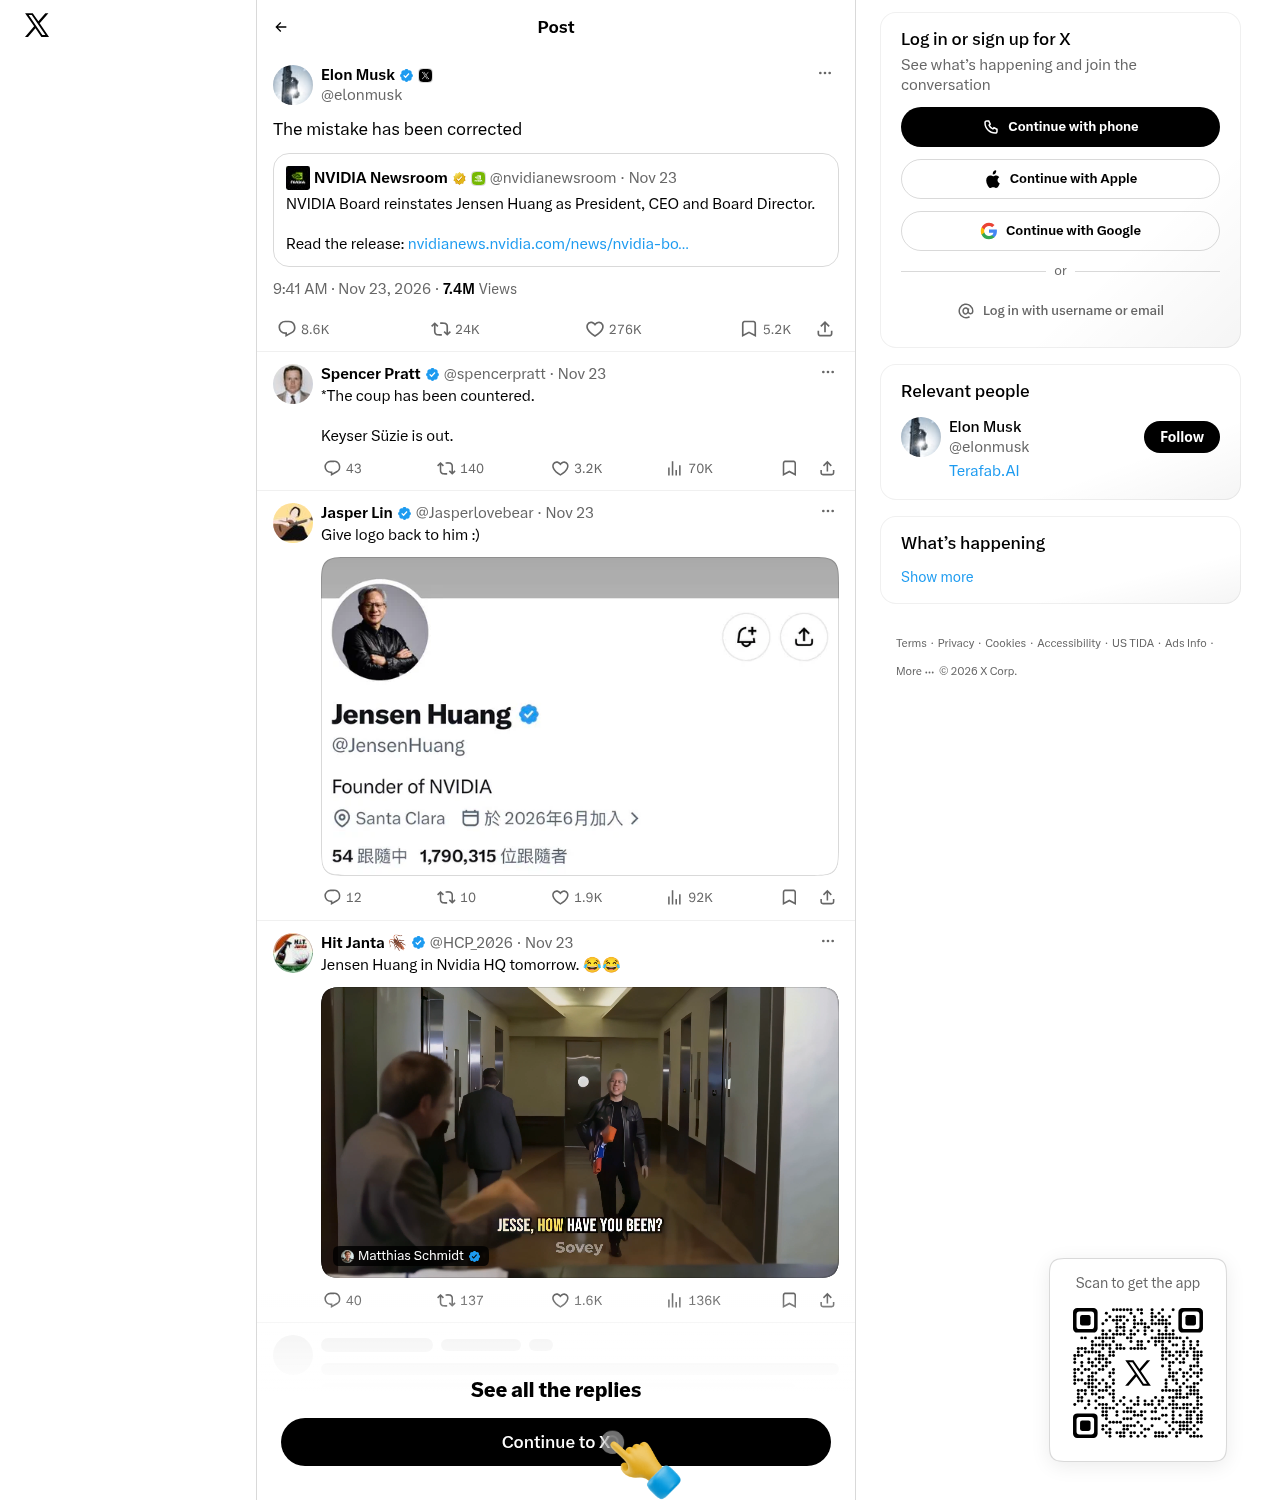
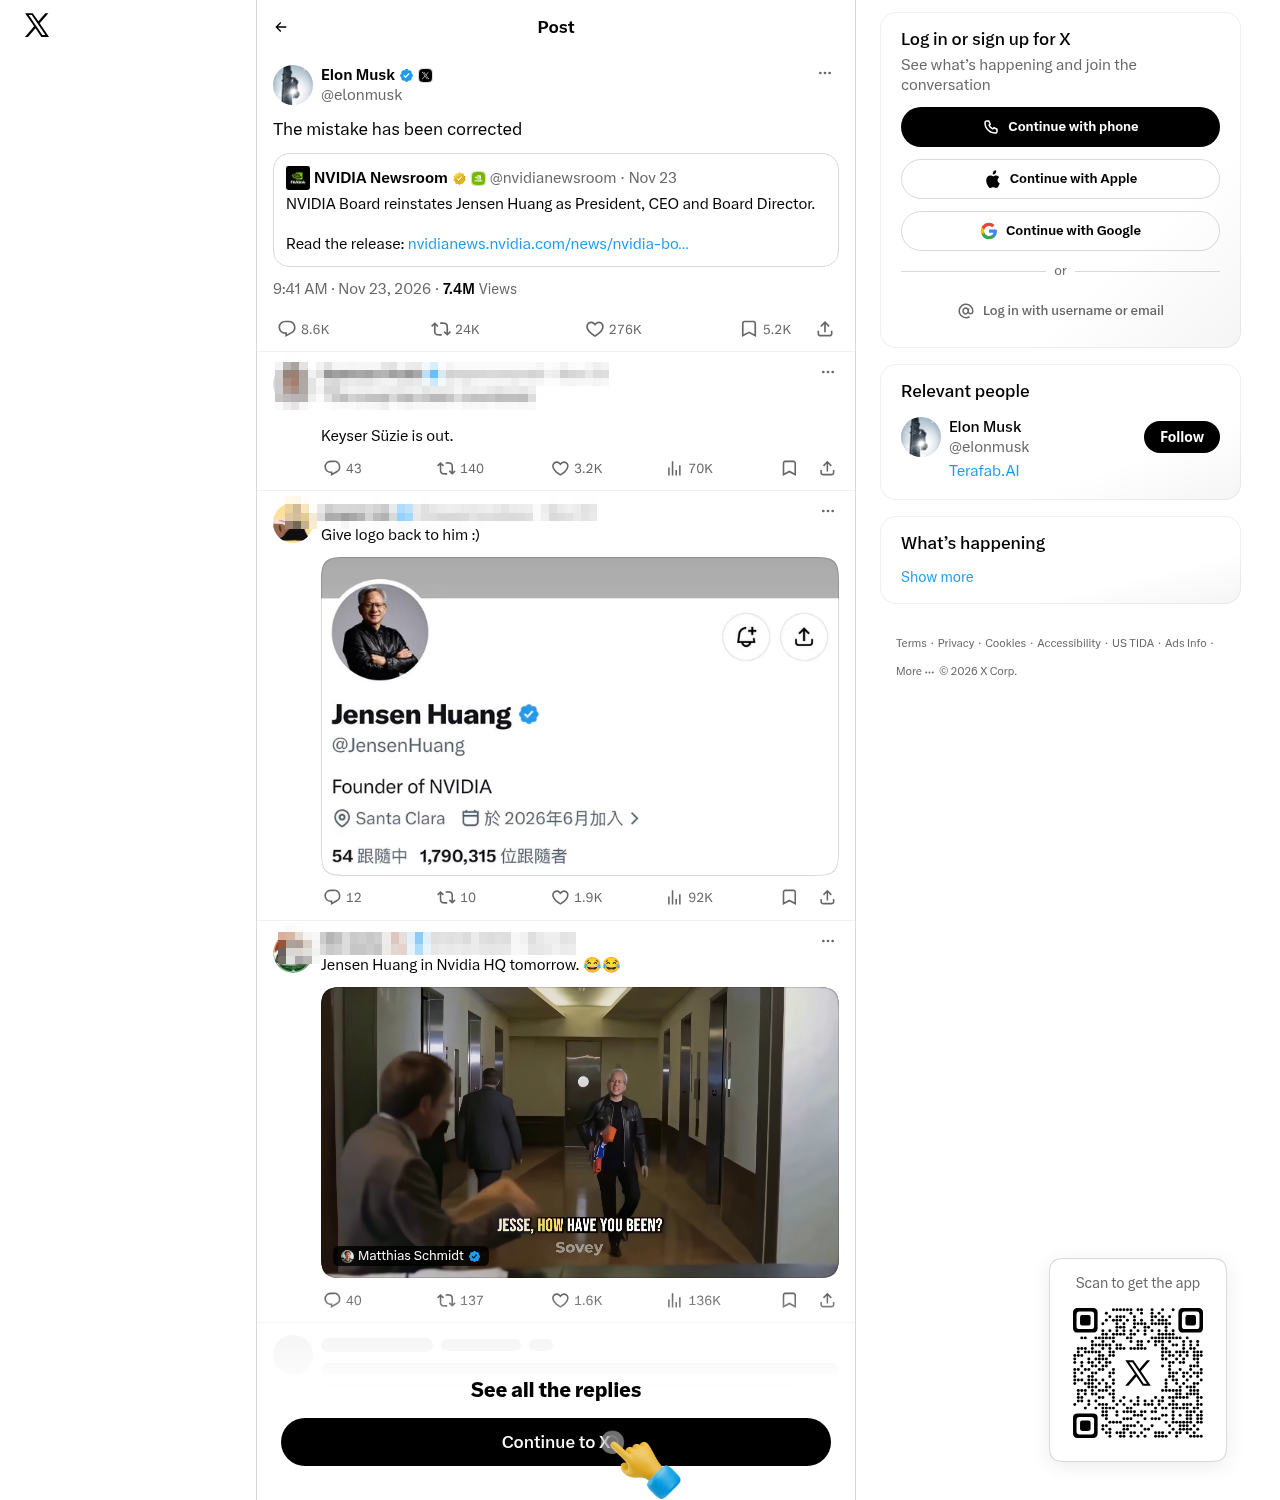
素材：J9/J10/J17/J18 普通账号打码

Changed region(s): [[0.2188, 0.6133, 0.4688, 0.644], [0.2188, 0.3373, 0.4688, 0.368], [0.2188, 0.2453, 0.4688, 0.276]]

diff --git a/demos/jensen-huang-comeback/素材/来源表.md b/demos/jensen-huang-comeback/素材/来源表.md
@@ -56,9 +56,9 @@
 | J8_cbs.png | J8 | CBS：复职与请愿 | https://cbsnews.com/news/nvidia-board-reinstates-ceo-jensen-huang | 截图 2026-11-24 10:54 ET | 1920 视窗 PNG | 公开网页截图，未登录、未绕过付费墙 |  |
 | J8_cbs_crop_petition.png | J8 | 请愿签名数字 | https://cbsnews.com/news/nvidia-board-reinstates-ceo-jensen-huang | 截图 2026-11-24 10:54 ET | 1920 视窗 PNG | 公开网页截图，未登录、未绕过付费墙 | 局部裁图，不覆盖整页 |
 | J23_cbs_crop_rajgopal.png | J23 | CBS：Rajgopal 引语 | https://cbsnews.com/news/nvidia-board-reinstates-ceo-jensen-huang | 截图 2026-11-24 10:54 ET | 1920 视窗 PNG | 公开网页截图，未登录、未绕过付费墙 | 局部裁图，不覆盖整页 |
-| J9_x_musk_petition.png | J9 | 马斯克 X：签了请愿 | https://x.com/elonmusk/status/2121345211959804234 | 截图 2026-11-24 10:54 ET | 1920 视窗 PNG | 公开网页截图，未登录、未绕过付费墙 | X 原帖。周围回复里有普通账号，剪进成片前请把那些头像和名字打码，只留当事人正文 |
-| J10_x_huang_1117.png | J10 | 黄仁勋 X 11/17 表态 | https://x.com/JensenHuang/status/2122726005219737649 | 截图 2026-11-24 10:55 ET | 1920 视窗 PNG | 公开网页截图，未登录、未绕过付费墙 | X 原帖。周围回复里有普通账号，剪进成片前请把那些头像和名字打码，只留当事人正文 |
-| J10_cnbc_1117.png | J10 | CNBC 11/17 黄仁勋声明 | https://www.cnbc.com/2026/11/17/nvidia-jensen-huang-statement.html | 截图 2026-11-24 10:55 ET | 1920 视窗 PNG | 公开网页截图，未登录、未绕过付费墙 |  |
+| J9_x_musk_petition.png | J9 | 马斯克 X：签了请愿 | https://x.com/elonmusk/status/2121345211959804234 | 截图 2026-11-24 10:54 ET | 1920 视窗 PNG | 公开网页截图，未登录、未绕过付费墙 | 已打码普通账号。马斯克主帖、正文、时间和互动数字保留 |
+| J10_x_huang_1117.png | J10 | 黄仁勋 X 11/17 表态 | https://x.com/JensenHuang/status/2122726005219737649 | 截图 2026-11-24 10:55 ET | 1920 视窗 PNG | 公开网页截图，未登录、未绕过付费墙 | 已查看：只有黄仁勋本人，没有普通回复账号，未改画面 |
+| J10_cnbc_1117.png | J10 | CNBC 11/17 黄仁勋声明 | https://www.cnbc.com/2026/11/17/nvidia-jensen-huang-statement.html | 截图 2026-11-24 10:55 ET | 1920 视窗 PNG | 公开网页截图，未登录、未绕过付费墙 | 已查看：媒体署名，没有普通社交账号 |
 | J10_cnbc_1117_crop.png | J10 | “honored to return” 一类原句 | https://www.cnbc.com/2026/11/17/nvidia-jensen-huang-statement.html | 截图 2026-11-24 10:55 ET | 1920 视窗 PNG | 公开网页截图，未登录、未绕过付费墙 | 局部裁图，不覆盖整页 |
 | J11_politico_1117.png | J11 | Politico：琼斯说不打算复职 | https://www.politico.com/news/2026/11/17/jensen-huangs-return-is-off-the-table-nvidia-chair-says-01171687 | 截图 2026-11-24 10:55 ET | 1920 视窗 PNG | 公开网页截图，未登录、未绕过付费墙 |  |
 | J11_politico_1117_crop.png | J11 | does not intend 局部 | https://www.politico.com/news/2026/11/17/jensen-huangs-return-is-off-the-table-nvidia-chair-says-01171687 | 截图 2026-11-24 10:55 ET | 1920 视窗 PNG | 公开网页截图，未登录、未绕过付费墙 | 局部裁图，不覆盖整页 |
@@ -76,12 +76,12 @@
 | J16_rte_megaspeed.png | J16 | RTE：Megaspeed / 实体清单 | https://www.rte.ie/news/business/2026/1124/1600451-what-we-know-about-megaspeed/ | 截图 2026-11-24 10:56 ET | 1920 视窗 PNG | 公开网页截图，未登录、未绕过付费墙 |  |
 | J16_rte_crop_apex.png | J16 | Apex | https://www.rte.ie/news/business/2026/1124/1600451-what-we-know-about-megaspeed/ | 截图 2026-11-24 10:56 ET | 1920 视窗 PNG | 公开网页截图，未登录、未绕过付费墙 | 局部裁图，不覆盖整页 |
 | J16_rte_crop_erroneous.png | J16 | erroneous 回应 | https://www.rte.ie/news/business/2026/1124/1600451-what-we-know-about-megaspeed/ | 截图 2026-11-24 10:56 ET | 1920 视窗 PNG | 公开网页截图，未登录、未绕过付费墙 | 局部裁图，不覆盖整页 |
-| J17_x_musk_corrected.png | J17 | 马斯克 X：The mistake has been corrected | https://x.com/elonmusk/status/2124875939133751684 | 截图 2026-11-24 10:56 ET | 1920 视窗 PNG | 公开网页截图，未登录、未绕过付费墙 | X 原帖。周围回复里有普通账号，剪进成片前请把那些头像和名字打码，只留当事人正文 |
-| J17_investing_reactions.png | J17 | Investing.com 转载路透各方反应 | https://www.investing.com/news/stock-market-news/political-and-corporate-leaders-react-to-huangs-return-as-nvidia-ceo-5045985 | 截图 2026-11-24 10:57 ET | 1920 视窗 PNG | 公开网页截图，未登录、未绕过付费墙 |  |
+| J17_x_musk_corrected.png | J17 | 马斯克 X：The mistake has been corrected | https://x.com/elonmusk/status/2124875939133751684 | 截图 2026-11-24 10:56 ET | 1920 视窗 PNG | 公开网页截图，未登录、未绕过付费墙 | 已打码普通账号。马斯克主帖和英伟达新闻室引用保留 |
+| J17_investing_reactions.png | J17 | Investing.com 转载路透各方反应 | https://www.investing.com/news/stock-market-news/political-and-corporate-leaders-react-to-huangs-return-as-nvidia-ceo-5045985 | 截图 2026-11-24 10:57 ET | 1920 视窗 PNG | 公开网页截图，未登录、未绕过付费墙 | 已查看：新闻页，没有普通社交账号 |
 | J17_investing_crop_musk.png | J17 | 马斯克那句 | https://www.investing.com/news/stock-market-news/political-and-corporate-leaders-react-to-huangs-return-as-nvidia-ceo-5045985 | 截图 2026-11-24 10:57 ET | 1920 视窗 PNG | 公开网页截图，未登录、未绕过付费墙 | 局部裁图，不覆盖整页 |
 | J21_investing_crop_warren.png | J21 | 沃伦引语（路透反应稿） | https://www.investing.com/news/stock-market-news/political-and-corporate-leaders-react-to-huangs-return-as-nvidia-ceo-5045985 | 截图 2026-11-24 10:57 ET | 1920 视窗 PNG | 公开网页截图，未登录、未绕过付费墙 | 局部裁图，不覆盖整页 |
-| J18_x_calacanis.png | J18 | Jason Calacanis X：GPU Jesus | https://x.com/Jason/status/2124871290578407730 | 截图 2026-11-24 10:57 ET | 1920 视窗 PNG | 公开网页截图，未登录、未绕过付费墙 | X 原帖。周围回复里有普通账号，剪进成片前请把那些头像和名字打码，只留当事人正文 |
-| J18_decrypt.png | J18 | Decrypt 梗文 | https://decrypt.co/383820/jensen-huang-returns-nvidia-memes-gpu-jesus | 截图 2026-11-24 10:57 ET | 1920 视窗 PNG | 公开网页截图，未登录、未绕过付费墙 |  |
+| J18_x_calacanis.png | J18 | Jason Calacanis X：GPU Jesus | https://x.com/Jason/status/2124871290578407730 | 截图 2026-11-24 10:57 ET | 1920 视窗 PNG | 公开网页截图，未登录、未绕过付费墙 | 已查看：只有 @jason 主帖，没有普通回复账号，未改画面 |
+| J18_decrypt.png | J18 | Decrypt 梗文 | https://decrypt.co/383820/jensen-huang-returns-nvidia-memes-gpu-jesus | 截图 2026-11-24 10:57 ET | 1920 视窗 PNG | 公开网页截图，未登录、未绕过付费墙 | 已查看：媒体署名，没有普通社交账号 |
 | J18_decrypt_crop_calacanis.png | J18 | GPU Jesus 段落 | https://decrypt.co/383820/jensen-huang-returns-nvidia-memes-gpu-jesus | 截图 2026-11-24 10:57 ET | 1920 视窗 PNG | 公开网页截图，未登录、未绕过付费墙 | 局部裁图，不覆盖整页 |
 | J19_decrypt_crop_cramer.png | J19 | 克莱默梗段落（普通网民账号按规则另处理） | https://decrypt.co/383820/jensen-huang-returns-nvidia-memes-gpu-jesus | 截图 2026-11-24 10:57 ET | 1920 视窗 PNG | 公开网页截图，未登录、未绕过付费墙 | 局部裁图，不覆盖整页 |
 | J22_jeffries.png | J22 | 杰弗里斯声明页 | https://jeffries.house.gov/2026/11/23/speaker-designate-jeffries-statement-on-the-reinstatement-of-jensen-huang-as-ceo-of-nvidia/ | 截图 2026-11-24 10:57 ET | 1920 视窗 PNG | 公开网页截图，未登录、未绕过付费墙 |  |

diff --git a/demos/jensen-huang-comeback/素材/x/来源表.md b/demos/jensen-huang-comeback/素材/x/来源表.md
@@ -6,6 +6,8 @@
 
 ## 入库说明
 
+- 2026-11-24 入库后已打码：回复区和侧栏里的普通账号头像、显示名和 handle 做了像素化。主帖账号（马斯克、黄仁勋、Calacanis、Altman、Haberman、Ryanair、Gavin Baker、Alec Fong、aburducky、DeItaone、Itzkoff、kimmonismus、mochains、Hesamation、英伟达新闻室、Watcher Guru）以及主帖正文、时间、互动数字保留。现场静帧和视频缩略图里没有账号，未改。
+
 - 本目录已放进仓库。@aburducky 与 @GavinSBaker 两条视频下载时是 2160×3840，由 Grok Bot 转成 1080×1920、H.264、CRF 21。仓里的文件名带 `_1080`。原片留在 Grok Bot 自己的机器上（64 MB / 58 MB），需要可以再要。
 - @kimmonismus / @mochains 的视频，以及 @Hesamation 的图，是 AI 梗，不是实拍。
 - 马斯克 “It is done” 没有点名英伟达。13 分钟后的 “The mistake has been corrected” 引用了英伟达新闻室，才算点名。
